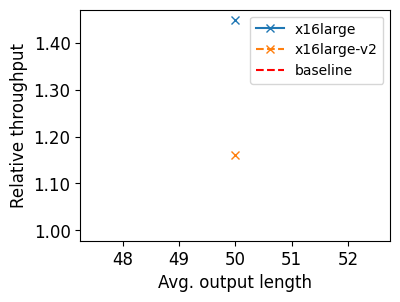
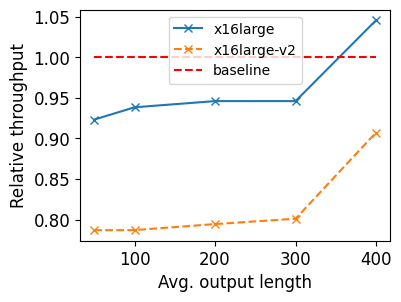
test: result v0/v2

diff --git a/evaluation/illustrator.py b/evaluation/illustrator.py
@@ -103,11 +103,15 @@ def draw_one_ps_diagram(
 
         for out_len in output_lens:
             file_names = [f'{cur_dir}/results/{sys_name}-{num_datas[i]}-{input_lens[i]}-{out_len}-tp.json' for sys_name in [base_sys_name, sys_file_names[i]]]
-            tp_pair = get_tp(file_names, interv)
+            tp_pair = get_tp_token(file_names) #get_tp(file_names, interv)
             tps.append(tp_pair)
 
-            file_names_v2 = [f'{cur_dir}/results/{sys_name}-{num_datas[i]}-{input_lens[i]}-{out_len}-v2-tp.json' for sys_name in [base_sys_name, sys_file_names[i]]]
-            tp_pair_v2 = get_tp(file_names_v2, interv)
+            # file_names_v2 = [f'{cur_dir}/results/{sys_name}-{num_datas[i]}-{input_lens[i]}-{out_len}-v2-tp.json' for sys_name in [ base_sys_name, sys_file_names[i]]] # base_sys_name
+            file_names_v2 = [
+                f'{cur_dir}/results/{sys_name}-{num_datas[i]}-{input_lens[i]}-{out_len}-{"v2-" if sys_name != base_sys_name else ""}tp.json'
+                for sys_name in [base_sys_name, sys_file_names[i]]
+            ]
+            tp_pair_v2 = get_tp_token(file_names_v2) #get_tp(file_names_v2, interv)
             tps_v2.append(tp_pair_v2)
                
         ratios = [tp1 / tp0 for tp0, tp1 in tps]
@@ -115,6 +119,18 @@ def draw_one_ps_diagram(
 
         ratios_v2 = [tp1 / tp0 for tp0, tp1 in tps_v2]
         ax.plot(output_lens, ratios_v2, label=f'{legend_names[i]}-v2', marker=markers[i], linestyle='--')
+
+        # for out_len in output_lens:
+        #     file_names = [
+        #         f'{cur_dir}/results/{"ours" if sys_name != base_sys_name else "ours"}-{num_datas[i]}-{input_lens[i]}-{out_len}-{"v2-" if sys_name != base_sys_name else ""}tp.json'
+        #         for sys_name in [base_sys_name, sys_file_names[i]]
+        #     ]
+        #     # file_base_names = [f'{cur_dir}/results/{sys_name}-{num_datas[i]}-{input_lens[i]}-{out_len}-tp.json' for sys_name in [base_sys_name]]
+        #     tp_base_pair = get_tp_token(file_names) #get_tp(file_names, interv)
+        #     tps.append(tp_base_pair)
+        
+        # ratios = [tp1 / tp0 for tp0, tp1 in tps]
+        # ax.plot(output_lens, ratios, label=f'{legend_names[i]}', marker=markers[i])
 
     # draw y = 1 line
     ax.plot([output_lens[0], output_lens[-1]], [1, 1], 'r--', label='baseline')

diff --git a/examples/example.py b/examples/example.py
@@ -172,24 +172,24 @@ if __name__ == '__main__':
     for iteration in range(150):
         batches = [swiftllm.SubBatch() for _ in range(2)]
         # g + c 
-        # for i in range(ngpu_prompts // 2):
-        #     batches[0].add_gdec(reqs[i])
-        # for i in range(ngpu_prompts // 2, nprompts // 2):
-        #     batches[1].add_cdec(reqs[i])
-        # for i in range(nprompts // 2, nprompts // 2 + ngpu_prompts // 2):
-        #     batches[1].add_gdec(reqs[i])
-        # for i in range(nprompts // 2 + ngpu_prompts // 2, nprompts):
-        #     batches[0].add_cdec(reqs[i])
-
-        # g only
         for i in range(ngpu_prompts // 2):
             batches[0].add_gdec(reqs[i])
         for i in range(ngpu_prompts // 2, nprompts // 2):
-            batches[1].add_gdec(reqs[i])
+            batches[1].add_cdec(reqs[i])
         for i in range(nprompts // 2, nprompts // 2 + ngpu_prompts // 2):
             batches[1].add_gdec(reqs[i])
         for i in range(nprompts // 2 + ngpu_prompts // 2, nprompts):
-            batches[0].add_gdec(reqs[i])
+            batches[0].add_cdec(reqs[i])
+
+        # g only
+        # for i in range(ngpu_prompts // 2):
+        #     batches[0].add_gdec(reqs[i])
+        # for i in range(ngpu_prompts // 2, nprompts // 2):
+        #     batches[1].add_gdec(reqs[i])
+        # for i in range(nprompts // 2, nprompts // 2 + ngpu_prompts // 2):
+        #     batches[1].add_gdec(reqs[i])
+        # for i in range(nprompts // 2 + ngpu_prompts // 2, nprompts):
+        #     batches[0].add_gdec(reqs[i])
             
         # Un-comment the following 4 lines to run mixed batches
         # reqs.append(swiftllm.create_request(input_ids, len(reqs)))

diff --git a/evaluation/reproduce-fig6c.py b/evaluation/reproduce-fig6c.py
@@ -55,7 +55,7 @@ async def main():
 
 
 if __name__ == "__main__":
-    asyncio.run(main())
+    # asyncio.run(main())
     print(f"finish test")
     # draw_one_rl_diagram(
     #     title="fig6c",
@@ -68,16 +68,16 @@ if __name__ == "__main__":
     #     set_ylabel=True
     # )
 
-    # draw_one_ps_diagram(
-    #     title="fig10a",
-    #     base_sys_name="base",
-    #     interv=[0.3, 0.7], # The interval for calculating throughput, we ignore the first 30% and last 30% of the data in order to avoid warm-up and cool-down effects.
-    #     num_datas=[800],
-    #     sys_file_names=["ours"],
-    #     legend_names=["x16large"],
-    #     input_lens=[500],
-    #     output_lens=[50],
-    #     markers=["x"],
-    #     show_ylabels=True,
-    #     show_legend=True
-    # )
+    draw_one_ps_diagram(
+        title="fig10a",
+        base_sys_name="base",
+        interv=[0.3, 0.7], # The interval for calculating throughput, we ignore the first 30% and last 30% of the data in order to avoid warm-up and cool-down effects.
+        num_datas=[800],
+        sys_file_names=["ours"],
+        legend_names=["x16large"],
+        input_lens=[500],
+        output_lens=[50],
+        markers=["x"],
+        show_ylabels=True,
+        show_legend=True
+    )

diff --git a/evaluation/server.py b/evaluation/server.py
@@ -19,6 +19,18 @@ def start_server(name: str, config: dict):
     global server_proc
 
     numacmd = ["numactl", "-N", "0", "-m", "0"]
+    nsys_cmd = [
+        "nsys", "profile",
+        "--trace=cuda,nvtx,osrt",
+        "--sample=cpu",
+        "--capture-range=nvtx",
+        "--capture-range-end=stop",
+        "-o", "swiftllm_profile",
+        "--wait=primary",
+        "--delay","10",
+        "--duration","3"
+    ]
+    
     with open(f"{cur_dir}/{name}-server.log", "w") as f:
         if name[:4] == "vllm":
             chunk_size_str = name[4:] if name != "vllm" else str(config["num_gpu_blocks_override"] * config["block_size"])
@@ -64,7 +76,7 @@ def start_server(name: str, config: dict):
                 num_gpu_blocks_override = config["num_gpu_blocks_override"] * nl // (nl + 1)
                 swap_space = config["swap_space"]
             
-            cmd = numacmd + [
+            cmd = nsys_cmd + numacmd + [
                 sys.executable, "-m", "swiftllm.server.api_server",
                 "--port", "8000",
                 "--model-path", config["model_path"],

diff --git a/evaluation/reproduce-fig10.py b/evaluation/reproduce-fig10.py
@@ -19,7 +19,7 @@ from illustrator import draw_one_ps_diagram
 
 # Tweak hyperparameters here:
 
-num_data = 800 # 2000
+num_data = 300 # 2000
 # Number of total request send to the serving engine, reduce this number to speed up the evaluation process. 
 # However, the result may not be as accurate as the original one due to warm-up and cool-down effects. It is 
 # not recommended to set this number below 800.
@@ -27,7 +27,7 @@ num_data = 800 # 2000
 input_len = 500 # 1000
 # Length of input sequence, please keep it as 1000 to reproduce the original result.
 
-output_lens = [400] #, 100, 200, 300, 400]
+output_lens = [50]#, 100, 200, 300, 400]
 # Length of output sequence, reduce the number of elements in the list to speed up the evaluation process.
 
 
